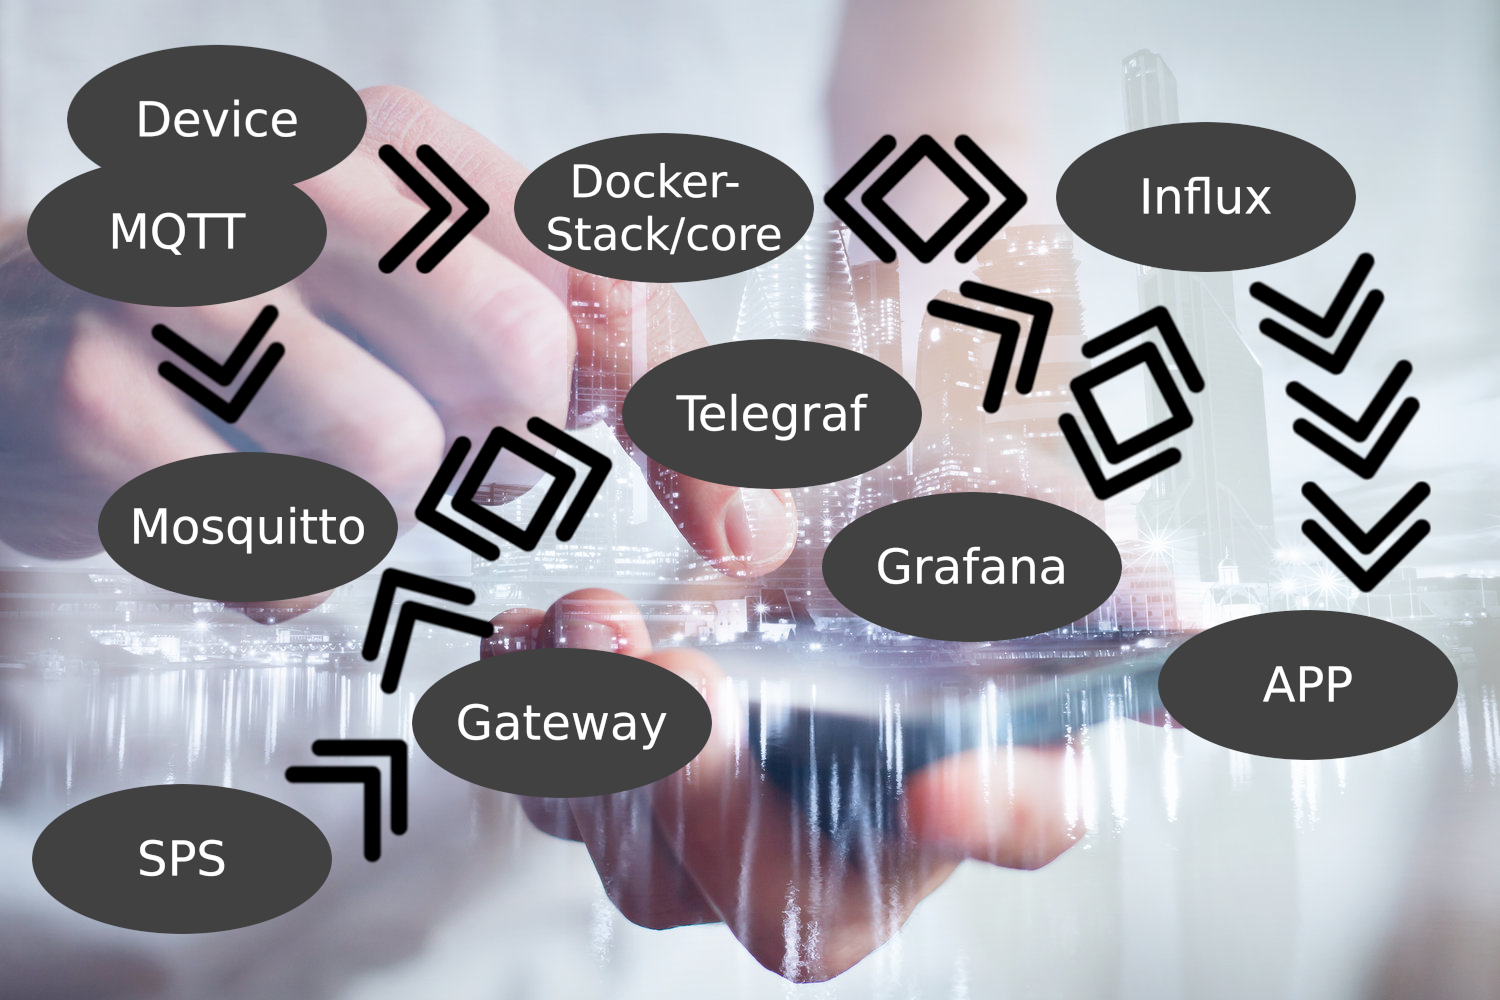
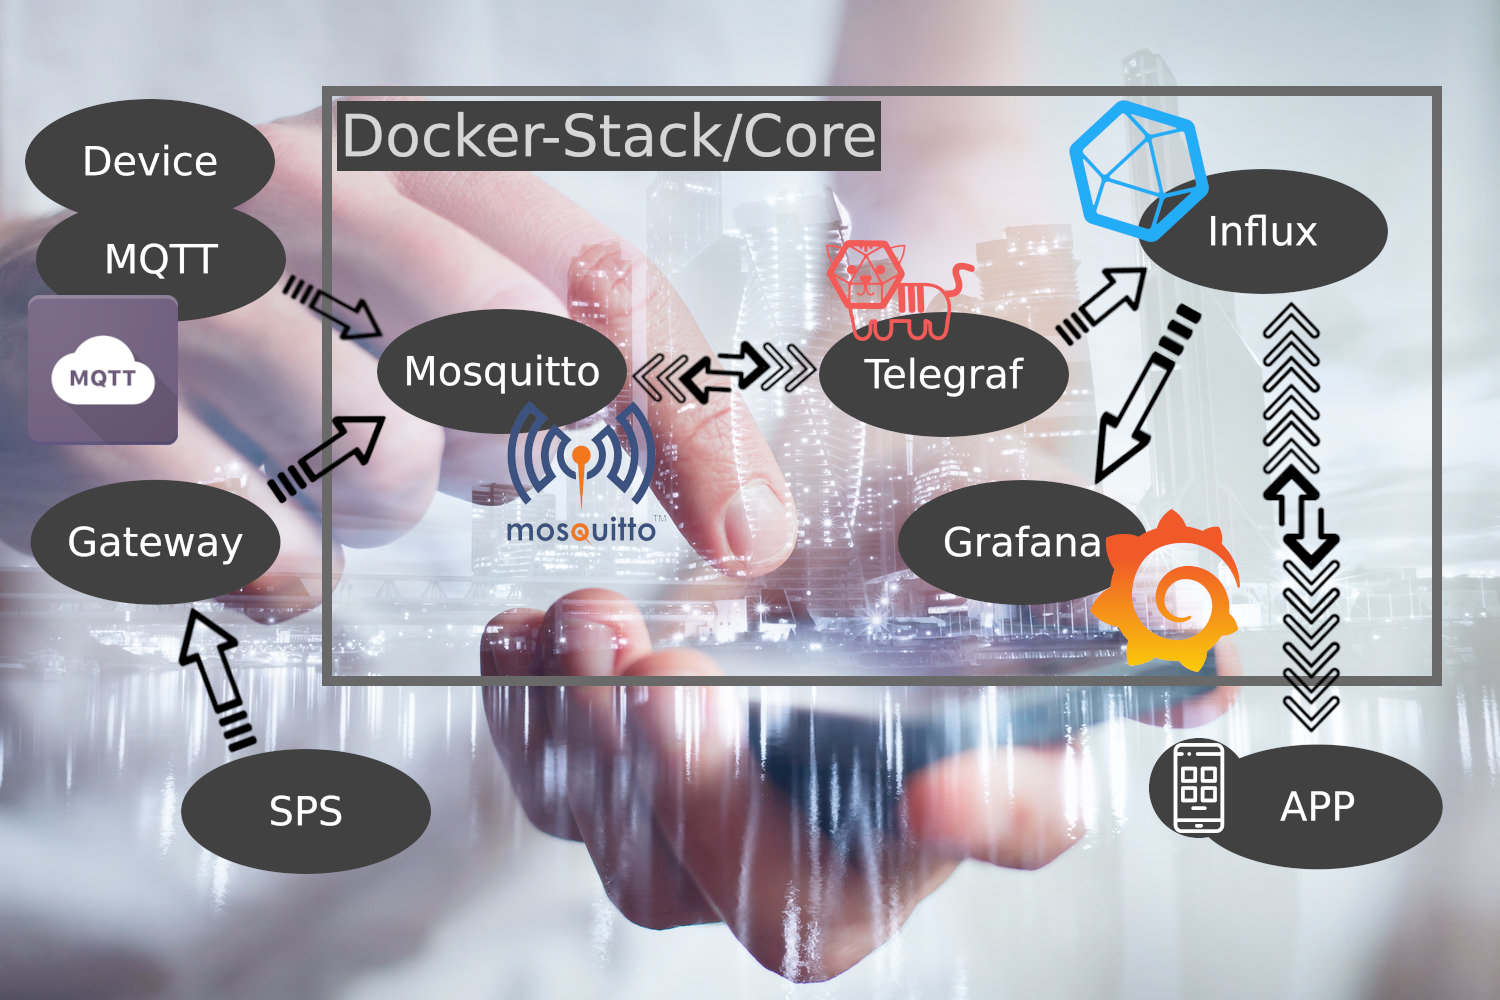
text, image change links, image

diff --git a/css/new-age.min.css b/css/new-age.min.css
@@ -2,4 +2,4 @@
  * Start Bootstrap - New Age v5.0.7 (https://startbootstrap.com/template-overviews/new-age)
  * Copyright 2013-2020 Start Bootstrap
  * Licensed under MIT (https://github.com/BlackrockDigital/startbootstrap-new-age/blob/master/LICENSE)
- */body,html{width:100%;height:100%}body{font-family:Muli,Helvetica,Arial,sans-serif}a{color:#fff;transition:all .35s}a:focus,a:hover{color:#e6e6e6}hr{max-width:100px;margin:25px auto 0;border-width:1px;border-color:rgba(34,34,34,.1)}hr.light{border-color:#fff}h1,h2,h3,h4,h5,h6{font-family:Catamaran,Helvetica,Arial,sans-serif;font-weight:200;letter-spacing:1px}p{font-size:18px;line-height:1.5;margin-bottom:20px}section{padding:100px 0}section h2{font-size:50px}#mainNav{border-color:rgba(34,34,34,.05);background-color:#fff;transition:all .35s;font-family:Catamaran,Helvetica,Arial,sans-serif;font-weight:200;letter-spacing:1px}#mainNav .navbar-brand{color:#fff;font-family:Catamaran,Helvetica,Arial,sans-serif;font-weight:200;letter-spacing:1px}#mainNav .navbar-brand:focus,#mainNav .navbar-brand:hover{color:#e6e6e6}#mainNav .banner{display:block;box-sizing:border-box;background:url(/img/IoTStack.png) no-repeat;width:320px;height:74px;padding-left:320px}#mainNav .navbar-toggler{font-size:12px;padding:8px 10px;color:#222}#mainNav .navbar-nav>li>a{font-size:11px;font-family:Lato,Helvetica,Arial,sans-serif;letter-spacing:2px;text-transform:uppercase}#mainNav .navbar-nav>li>a.active{color:#00a300!important;background-color:transparent}#mainNav .navbar-nav>li>a.active:hover{background-color:transparent}#mainNav .navbar-nav>li>a,#mainNav .navbar-nav>li>a:focus{color:#222}#mainNav .navbar-nav>li>a:focus:hover,#mainNav .navbar-nav>li>a:hover{color:#00a300}@media (min-width:992px){#mainNav{border-color:transparent;background-color:transparent}#mainNav .banner{background:url(/img/IoTStack-wht.png) no-repeat}#mainNav .navbar-brand{color:fade(white,70%)}#mainNav .navbar-brand:focus,#mainNav .navbar-brand:hover{color:#fff}#mainNav .navbar-nav>li>a,#mainNav .navbar-nav>li>a:focus{color:rgba(255,255,255,.7)}#mainNav .navbar-nav>li>a:focus:hover,#mainNav .navbar-nav>li>a:hover{color:#fff}#mainNav.navbar-shrink{border-color:rgba(34,34,34,.1);background-color:#fff}#mainNav.navbar-shrink .navbar-brand{color:#222}#mainNav.navbar-shrink .navbar-brand:focus,#mainNav.navbar-shrink .navbar-brand:hover{color:#00a300}#mainNav.navbar-shrink .navbar-nav>li>a,#mainNav.navbar-shrink .navbar-nav>li>a:focus{color:#222}#mainNav.navbar-shrink .navbar-nav>li>a:focus:hover,#mainNav.navbar-shrink .navbar-nav>li>a:hover{color:#00a300}#mainNav.navbar-shrink .banner{background:url(/img/IoTStack.png) no-repeat}}header.masthead{position:relative;width:100%;padding-top:150px;padding-bottom:100px;color:#fff;background:url(../img/bg-pattern.png),linear-gradient(to right bottom,#ff7300,#00f)}header.masthead .header-content{max-width:500px;margin-bottom:100px;text-align:center}header.masthead .header-content h1{font-size:30px}header.masthead .device-container{max-width:325px;margin-right:auto;margin-left:auto}header.masthead .device-container .screen img{border-radius:3px}@media (min-width:992px){header.masthead{height:100vh;min-height:775px;padding-top:0;padding-bottom:0}header.masthead .header-content{margin-bottom:0;text-align:left}header.masthead .header-content h1{font-size:50px}header.masthead .device-container{max-width:325px}}section.download{position:relative;padding:150px 0}section.download h2{font-size:50px;margin-top:0}section.download .badges .badge-link{display:block;margin-bottom:25px}section.download .badges .badge-link:last-child{margin-bottom:0}section.download .badges .badge-link img{height:60px}@media (min-width:768px){section.download .badges .badge-link{display:inline-block;margin-bottom:0}}@media (min-width:768px){section.download h2{font-size:70px}}section.features .section-heading{margin-bottom:100px}section.features .section-heading h2{margin-top:0}section.features .section-heading p{margin-bottom:0}section.features .device-container,section.features .feature-item{max-width:325px;margin:0 auto}section.features .device-container{margin-bottom:100px}@media (min-width:992px){section.features .device-container{margin-bottom:0}}section.features .feature-item{padding-top:50px;padding-bottom:50px;text-align:center}section.features .feature-item h3{font-size:30px}section.features .feature-item i{font-size:80px;display:block;margin-bottom:15px;background:linear-gradient(to right bottom,#ff7300,#00f);-webkit-background-clip:text;-webkit-text-fill-color:transparent}section.cta{position:relative;padding:250px 0;background-image:url(../img/test_iot_orange.png);background-position:center;background-size:cover}section.cta .cta-content{position:relative;z-index:1}section.cta .cta-content h2{font-size:50px;margin-top:0;margin-bottom:25px;color:#fff}@media (min-width:768px){section.cta .cta-content h2{font-size:80px}}section.cta .overlay{position:absolute;top:0;left:0;width:100%;height:100%;background-color:rgba(255,255,255,0)}section.contact{text-align:center}section.contact h2{margin-top:0;margin-bottom:25px;color:#fff}section.contact h2 i{color:#eee}section.contact ul.list-social{margin-bottom:0}section.contact ul.list-social li a{font-size:40px;line-height:80px;display:block;width:80px;height:80px;color:#fff;border-radius:100%}section.contact ul.list-social li.social-github a{background-color:#24292e}section.contact ul.list-social li.social-github a:hover{background-color:#191c20}section.contact ul.list-social li.social-biba a{background-color:#eee}section.contact ul.list-social li.social-biba a:hover{background-color:#e1e1e1}section.contact ul.list-social li.social-swms a{background-color:#eee}section.contact ul.list-social li.social-swms a:hover{background-color:#e1e1e1}footer{padding:25px 0;text-align:center;color:rgba(255,255,255,.3);background-color:#222}footer p{font-size:12px;margin:0}footer ul{margin-bottom:0}footer ul li a{font-size:12px;color:rgba(255,255,255,.3)}footer ul li a.active,footer ul li a:active,footer ul li a:focus,footer ul li a:hover{text-decoration:none}.bg-primary{background:url(../img/bg-pattern.png),linear-gradient(to right bottom,#ff7300,#00f)}.text-primary{color:#fff}.no-gutter>[class*=col-]{padding-right:0;padding-left:0}.btn-outline{color:#fff;border:1px solid;border-color:#fff}.btn-outline.active,.btn-outline:active,.btn-outline:focus,.btn-outline:hover{color:#000;border-color:#000;background:linear-gradient(to right,#d10000,#ff7b00)}.btn{border-radius:300px;font-family:Lato,Helvetica,Arial,sans-serif;letter-spacing:2px;text-transform:uppercase}.btn-xl{font-size:11px;padding:15px 45px}section.example{position:relative;width:100%;padding-top:50px;padding-bottom:50px;color:#fff;background:url(../img/bg-pattern.png),linear-gradient(to right bottom,#ff7300,#00f);text-align:center}
+ */body,html{width:100%;height:100%}body{font-family:Muli,Helvetica,Arial,sans-serif}a{color:#fff;transition:all .35s}a:focus,a:hover{color:#e6e6e6}hr{max-width:100px;margin:25px auto 0;border-width:1px;border-color:rgba(34,34,34,.1)}hr.light{border-color:#fff}h1,h2,h3,h4,h5,h6{font-family:Catamaran,Helvetica,Arial,sans-serif;font-weight:200;letter-spacing:1px}p{font-size:18px;line-height:1.5;margin-bottom:20px}section{padding:100px 0}section h2{font-size:50px}#mainNav{border-color:rgba(34,34,34,.05);background-color:#fff;transition:all .35s;font-family:Catamaran,Helvetica,Arial,sans-serif;font-weight:200;letter-spacing:1px}#mainNav .navbar-brand{color:#fff;font-family:Catamaran,Helvetica,Arial,sans-serif;font-weight:200;letter-spacing:1px}#mainNav .navbar-brand:focus,#mainNav .navbar-brand:hover{color:#e6e6e6}#mainNav .banner{display:block;box-sizing:border-box;background:url(/img/IoTStack.png) no-repeat;width:320px;height:74px;padding-left:320px}#mainNav .navbar-toggler{font-size:12px;padding:8px 10px;color:#222}#mainNav .navbar-nav>li>a{font-size:11px;font-family:Lato,Helvetica,Arial,sans-serif;letter-spacing:2px;text-transform:uppercase}#mainNav .navbar-nav>li>a.active{color:#00a300!important;background-color:transparent}#mainNav .navbar-nav>li>a.active:hover{background-color:transparent}#mainNav .navbar-nav>li>a,#mainNav .navbar-nav>li>a:focus{color:#222}#mainNav .navbar-nav>li>a:focus:hover,#mainNav .navbar-nav>li>a:hover{color:#00a300}@media (min-width:992px){#mainNav{border-color:transparent;background-color:transparent}#mainNav .banner{background:url(/img/IoTStack-wht.png) no-repeat}#mainNav .navbar-brand{color:fade(white,70%)}#mainNav .navbar-brand:focus,#mainNav .navbar-brand:hover{color:#fff}#mainNav .navbar-nav>li>a,#mainNav .navbar-nav>li>a:focus{color:rgba(255,255,255,.7)}#mainNav .navbar-nav>li>a:focus:hover,#mainNav .navbar-nav>li>a:hover{color:#fff}#mainNav.navbar-shrink{border-color:rgba(34,34,34,.1);background-color:#fff}#mainNav.navbar-shrink .navbar-brand{color:#222}#mainNav.navbar-shrink .navbar-brand:focus,#mainNav.navbar-shrink .navbar-brand:hover{color:#00a300}#mainNav.navbar-shrink .navbar-nav>li>a,#mainNav.navbar-shrink .navbar-nav>li>a:focus{color:#222}#mainNav.navbar-shrink .navbar-nav>li>a:focus:hover,#mainNav.navbar-shrink .navbar-nav>li>a:hover{color:#00a300}#mainNav.navbar-shrink .banner{background:url(/img/IoTStack.png) no-repeat}}header.masthead{position:relative;width:100%;padding-top:150px;padding-bottom:100px;color:#fff;background:url(../img/bg-pattern.png),linear-gradient(to right bottom,#ff7300,#00f)}header.masthead .header-content{max-width:500px;margin-bottom:100px;text-align:center}header.masthead .header-content h1{font-size:30px}header.masthead .device-container{max-width:325px;margin-right:auto;margin-left:auto}header.masthead .device-container .screen img{border-radius:3px}@media (min-width:992px){header.masthead{height:100vh;min-height:775px;padding-top:0;padding-bottom:0}header.masthead .header-content{margin-bottom:0;text-align:left}header.masthead .header-content h1{font-size:50px}header.masthead .device-container{max-width:325px}}section.download{position:relative;padding:150px 0}section.download h2{font-size:50px;margin-top:0}section.download .badges .badge-link{display:block;margin-bottom:25px}section.download .badges .badge-link:last-child{margin-bottom:0}section.download .badges .badge-link img{height:60px}@media (min-width:768px){section.download .badges .badge-link{display:inline-block;margin-bottom:0}}@media (min-width:768px){section.download h2{font-size:70px}}section.features .section-heading{margin-bottom:10px}section.features .section-heading h2{margin-top:0}section.features .section-heading p{margin-bottom:0}section.features .device-container,section.features .feature-item{max-width:225px;margin:0 auto}section.features .device-container{margin-bottom:100px;text-align:center}@media (min-width:992px){section.features .device-container{margin-bottom:0}}section.features .feature-item{padding-top:20px;padding-bottom:0;text-align:center}section.features .feature-item h3{font-size:30px}section.features .feature-item i{font-size:80px;display:block;margin-bottom:15px;background:linear-gradient(to right bottom,#ff7300,#00f);-webkit-background-clip:text;-webkit-text-fill-color:transparent}section.cta{position:relative;padding:250px 0;background-image:url(../img/test_iot_orange.png);background-position:center;background-size:cover}section.cta .cta-content{position:relative;z-index:1}section.cta .cta-content h2{font-size:50px;margin-top:0;margin-bottom:25px;color:#fff}@media (min-width:768px){section.cta .cta-content h2{font-size:80px}}section.cta .overlay{position:absolute;top:0;left:0;width:100%;height:100%;background-color:rgba(255,255,255,0)}section.contact{text-align:center}section.contact h2{margin-top:0;margin-bottom:25px;color:#fff}section.contact h2 i{color:#eee}section.contact ul.list-social{margin-bottom:0}section.contact ul.list-social li a{font-size:40px;line-height:80px;display:block;width:80px;height:80px;color:#fff;border-radius:100%}section.contact ul.list-social li.social-github a{background-color:#24292e}section.contact ul.list-social li.social-github a:hover{background-color:#191c20}section.contact ul.list-social li.social-biba a{background-color:#eee}section.contact ul.list-social li.social-biba a:hover{background-color:#e1e1e1}section.contact ul.list-social li.social-swms a{background-color:#eee}section.contact ul.list-social li.social-swms a:hover{background-color:#e1e1e1}footer{padding:25px 0;text-align:center;color:rgba(255,255,255,.3);background-color:#222}footer p{font-size:12px;margin:0}footer ul{margin-bottom:0}footer ul li a{font-size:12px;color:rgba(255,255,255,.3)}footer ul li a.active,footer ul li a:active,footer ul li a:focus,footer ul li a:hover{text-decoration:none}.bg-primary{background:url(../img/bg-pattern.png),linear-gradient(to right bottom,#ff7300,#00f)}.text-primary{color:#fff}.no-gutter>[class*=col-]{padding-right:0;padding-left:0}.btn-outline{color:#fff;border:1px solid;border-color:#fff}.btn-outline.active,.btn-outline:active,.btn-outline:focus,.btn-outline:hover{color:#000;border-color:#000;background:linear-gradient(to right,#d10000,#ff7b00)}.btn{border-radius:300px;font-family:Lato,Helvetica,Arial,sans-serif;letter-spacing:2px;text-transform:uppercase}.btn-xl{font-size:11px;padding:15px 45px}section.example{position:relative;width:100%;padding-top:50px;padding-bottom:50px;color:#fff;background:url(../img/bg-pattern.png),linear-gradient(to right bottom,#ff7300,#00f);text-align:center}

diff --git a/index.html b/index.html
@@ -91,77 +91,96 @@
       <div class="row h-100">
         <img src="img/hintergrund_iot.png" class="figure-img" alt="">
       </div>
+      <!--===== MQTT ====-->
+      <h1>MQTT</h1>
+      <p>Mit MQTT werden die erfassten Daten zu Influx gesendet.</p>
+      <!--== Mosquitto ==-->
+      <h1>Mosquitto</h1>
+      <p>Mosquitto vereinfacht die Datenübertragung.</p>
+      <!--=== Telegraf ==-->
+      <h1>Telegraf</h1>
+      <p>Telegraf ist ein Plugin-gesteuerter Server-Agent zum Sammeln und Senden von Metriken und<br>
+        Ereignissen aus Datenbanken, Systemen und IoT-Sensoren. </p>
+      <!--==== Influx ===-->
+      <h1>Influx</h1>
+      <p>Influx bekommt alle Daten von allen Devices und schickt sie weiter zu Grafana und zur APP.</p>
+      <!--=== Grafana ===-->
+      <h1>Grafana</h1>
+      <p>In Grafana werden die Daten von Influx in einem Dashboard angezeigt.<br>
+        Das Dashboard kann man sich selbst gestalten.</p>
+      <!--===== APP =====-->
+      <h1>APP</h1>
+      <p>In der App werden die Daten wie in Grafana angezeigt und auch Daten wieder zurück gesendet.</p>
+      <!--=== Gateway ===-->
+      <h1>Gateway</h1>
+      <p>Ein Gateway ist ein Stück Netzwerk-Hardware, das in der Telekommunikation für<br>
+        Telekommunikationsnetzwerke verwendet wird und den Datenfluss<br>
+        von einem diskreten Netzwerk zu einem anderen ermöglicht.</p>
+      <!--===== SPS =====-->
+      <h1>SPS</h1>
+      <p>Es steht für Speicherprogrammierter Steuerung und sie werden zur Steuerung oder<br>
+        Regelung von Maschinen und Anlagen eingesetzt.</p>
     </div>
   </section>
 <!--=========== FEATURES ===========-->
-  <section class="features" id="features">                                      
+  <section class="features" id="features">
     <div class="container">
       <div class="section-heading text-center">
-        <h2>What options you can do whis IOTstack?</h2>
+        <h2>What options you can do whis IoTStack?</h2>
         <p class="text-muted">Here is one example what a IoTStack can be!</p>
         <hr>
       </div>
       <div class="row">
-        <div class="col-lg-4 my-auto">
-          <div class="device-container">
-            <div class="device-mockup iphone6_plus portrait black">
-              <div class="device">
-                <div class="screen">
-                  <!-- Demo image for screen mockup, you can put an image here, some HTML, an animation, video, or anything else! -->
-                  <!-- Different image for every "button"(symbol) to click on -->
-
-                   <img src="img/Kaffeemaschine.jpg" class="img-fluid" alt="">
-                  
-                 <!-- <img src="img/Grafana.png" class="img-fluid" alt="">
-                -->
-                  <img src="img/Grafana.png" class="img-fluid" alt="">
-                
-                </div>
-                <div class="button">
-                  <!-- You can hook the "home button" to some JavaScript events or just remove it -->
-                </div>
-              </div>
-            </div>
-          </div>
-        </div>
-        <div class="col-lg-8 my-auto">
+        <script type = "text/javascript">
+          var images = new Array(
+            'img/coffeemachine.png',
+            'img/Grafana.png' ,
+            'img/hardware.png',
+            'img/code.png'
+          );
+          function switch_img(index){
+          document.getElementById("image").src = images[index];     
+          }
+        </script>
+              <!-- Demo image for screen mockup, you can put an image here, some HTML, an animation, video, or anything else! -->
+              <!-- Different image for every "button"(symbol) to click on -->
           <div class="container-fluid">
-            <div class="row">
-              <div class="col-lg-6">
-                <div class="feature-item">
-                  <button class="btn"><i class="fas fa-coffee"></i></button>
-                  <h3>Coffeemachine</h3>
-                  <p class="text-muted">Ready to use HTML/CSS device mockups, no Photoshop required!</p>
+            <img src="img/coffeemachine.png" id="image" class="img-fluid" height="auto" width="auto"  alt="" />
+              <div class="row">
+                <div class="col-lg-6">
+                  <div class="feature-item">
+                    <button class="btn"><i class="fas fa-coffee" onclick="switch_img(0);"></i></button>
+                    <h3>Coffeemachine</h3>
+                    <p class="text-muted">Our example of an IoTStack as a coffeemachine.</p>
+                  </div>
                 </div>
-              </div>
-              <div class="col-lg-6">
-                <div class="feature-item">
-                  <button class="btn"><i class="icon-graph"></i></button>
-                  <h3>Grafana</h3>
-                  <p class="text-muted">Put an image, video, animation, or anything else in the screen!</p>
-                </div>
-              </div>
-            </div>
-            <div class="row">
-              <div class="col-lg-6">
-                <div class="feature-item">
-                  <div>
-                    <button class="btn"><i class="fa fa-microchip"></i></button>
-                    <h3>Hardware</h3>
-                    <p class="text-muted">As always, this theme is free to download and use for any purpose!</p>
+                <div class="col-lg-6">
+                  <div class="feature-item">
+                    <button class="btn"><i class="icon-graph" onclick="switch_img(1);"></i></button>
+                    <h3>Grafana</h3>
+                    <p class="text-muted">The dashboard for the project.</p>
                   </div>
                 </div>
               </div>
-              <div class="col-lg-6">
-                <div class="feature-item">
-                  <button class="btn"><i class="icon-layers"></i></button>
-                  <h3>Software</h3>
-                  <p class="text-muted">Since this theme is MIT licensed, you can use it commercially!</p>
+              <div class="row">
+                <div class="col-lg-6">
+                  <div class="feature-item">
+                    <div>
+                      <button class="btn"><i class="fa fa-microchip" onclick="switch_img(2);"></i></button>
+                      <h3>Hardware</h3>
+                      <p class="text-muted">You needn't much for a IoTStack.</p>
+                    </div>
+                  </div>
+                </div>
+                <div class="col-lg-6">
+                  <div class="feature-item">
+                    <button class="btn"><i class="icon-layers" onclick="switch_img(3);"></i></button>
+                    <h3>Software</h3>
+                    <p class="text-muted">Some code example of the project.</p>
+                  </div>
                 </div>
               </div>
-            </div>
           </div>
-        </div>
       </div>
     </div>
   </section>

diff --git a/scss/_features.scss b/scss/_features.scss
@@ -1,7 +1,7 @@
 // Styling for the features section
 section.features {
     .section-heading {
-        margin-bottom: 100px;
+        margin-bottom: 10px;
         h2 {
             margin-top: 0;
         }
@@ -11,18 +11,19 @@ section.features {
     }
     .device-container,
     .feature-item {
-        max-width: 325px;
+        max-width: 225px;
         margin: 0 auto;
     }
     .device-container {
         margin-bottom: 100px;
+        text-align: center;
         @media(min-width: 992px) {
             margin-bottom: 0;
         }
     }
     .feature-item {
-        padding-top: 50px;
-        padding-bottom: 50px;
+        padding-top: 20px;
+        padding-bottom: 0px;
         text-align: center;
         h3 {
             font-size: 30px;

diff --git a/css/new-age.css b/css/new-age.css
@@ -253,7 +253,7 @@ section.download .badges .badge-link img {
 }
 
 section.features .section-heading {
-  margin-bottom: 100px;
+  margin-bottom: 10px;
 }
 
 section.features .section-heading h2 {
@@ -266,12 +266,13 @@ section.features .section-heading p {
 
 section.features .device-container,
 section.features .feature-item {
-  max-width: 325px;
+  max-width: 225px;
   margin: 0 auto;
 }
 
 section.features .device-container {
   margin-bottom: 100px;
+  text-align: center;
 }
 
 @media (min-width: 992px) {
@@ -281,8 +282,8 @@ section.features .device-container {
 }
 
 section.features .feature-item {
-  padding-top: 50px;
-  padding-bottom: 50px;
+  padding-top: 20px;
+  padding-bottom: 0px;
   text-align: center;
 }
 
